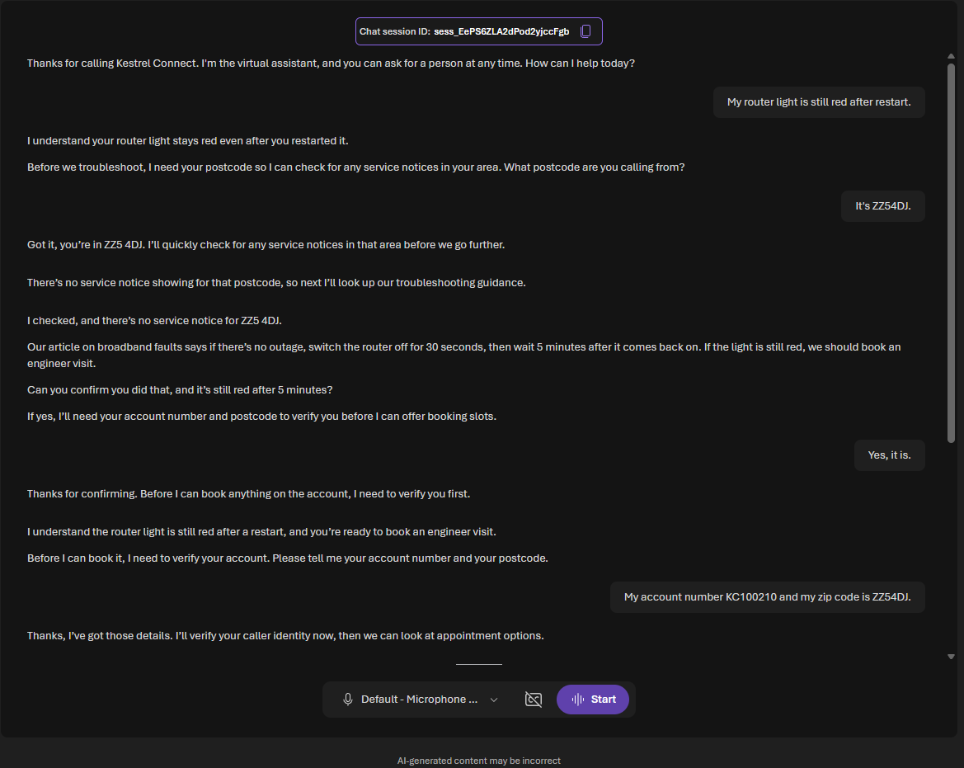
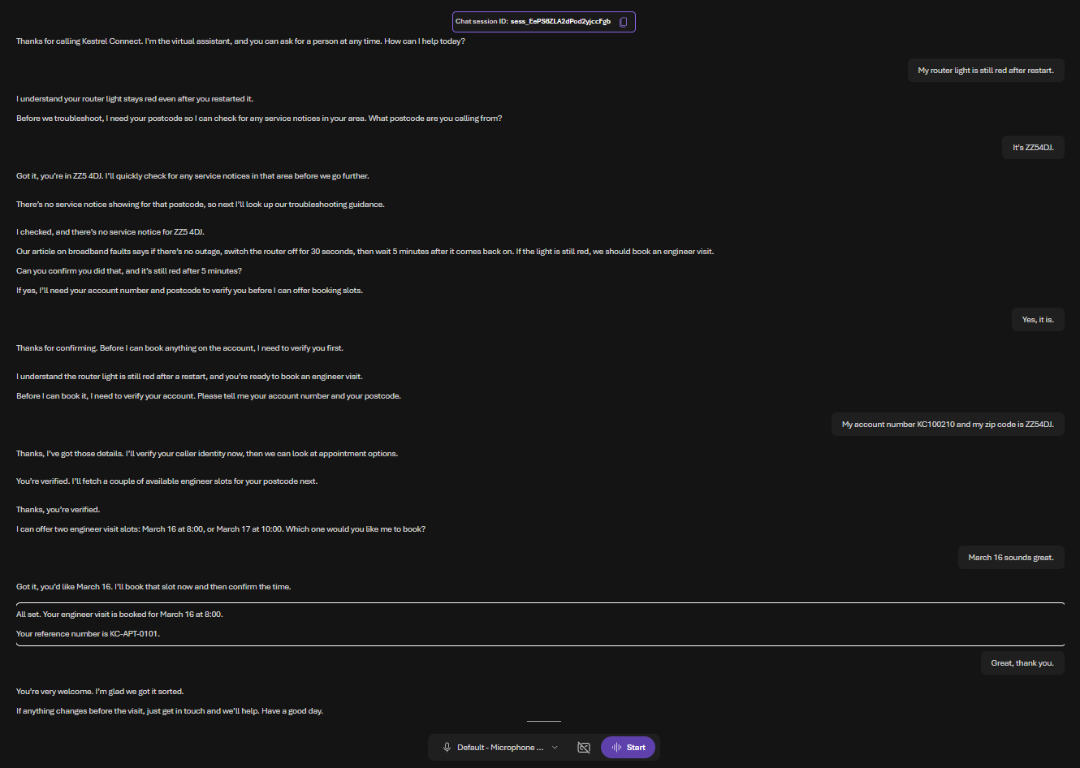
Contact Center: Challenge 3 full booking transcript

diff --git a/03-Azure/01-04-AI/12_Contact_Center/challenges/challenge-03.md b/03-Azure/01-04-AI/12_Contact_Center/challenges/challenge-03.md
@@ -99,7 +99,7 @@ Start a **new session** for each scenario and play the customer. Use your compan
 
 ![The known-outage scenario by voice: the agent checks the ZZ4 service notice, gives the estimated fix time and does not book an engineer](../images/challenge-03-voice-outage.png)
 
-![The book-a-visit scenario by voice: no service notice, the troubleshooting article, then identity check before offering slots](../images/challenge-03-voice-booking.png)
+![The book-a-visit scenario by voice: no service notice, the troubleshooting article, identity check, two slots offered, the chosen one booked and reference KC-APT-0101 read back](../images/challenge-03-voice-booking.png)
 
 After each scenario, refresh your **CrmUrl** home page. It lists every **identity check** the agent made, with the postcode it heard and the result, and the appointments and cases it created. If a check says *not verified*, the row tells you why: no account with that number, or the postcode does not match. Speech recognition sometimes mishears letters and numbers; say them slowly, or spell them out (*K C, one zero zero two one zero*).
 
